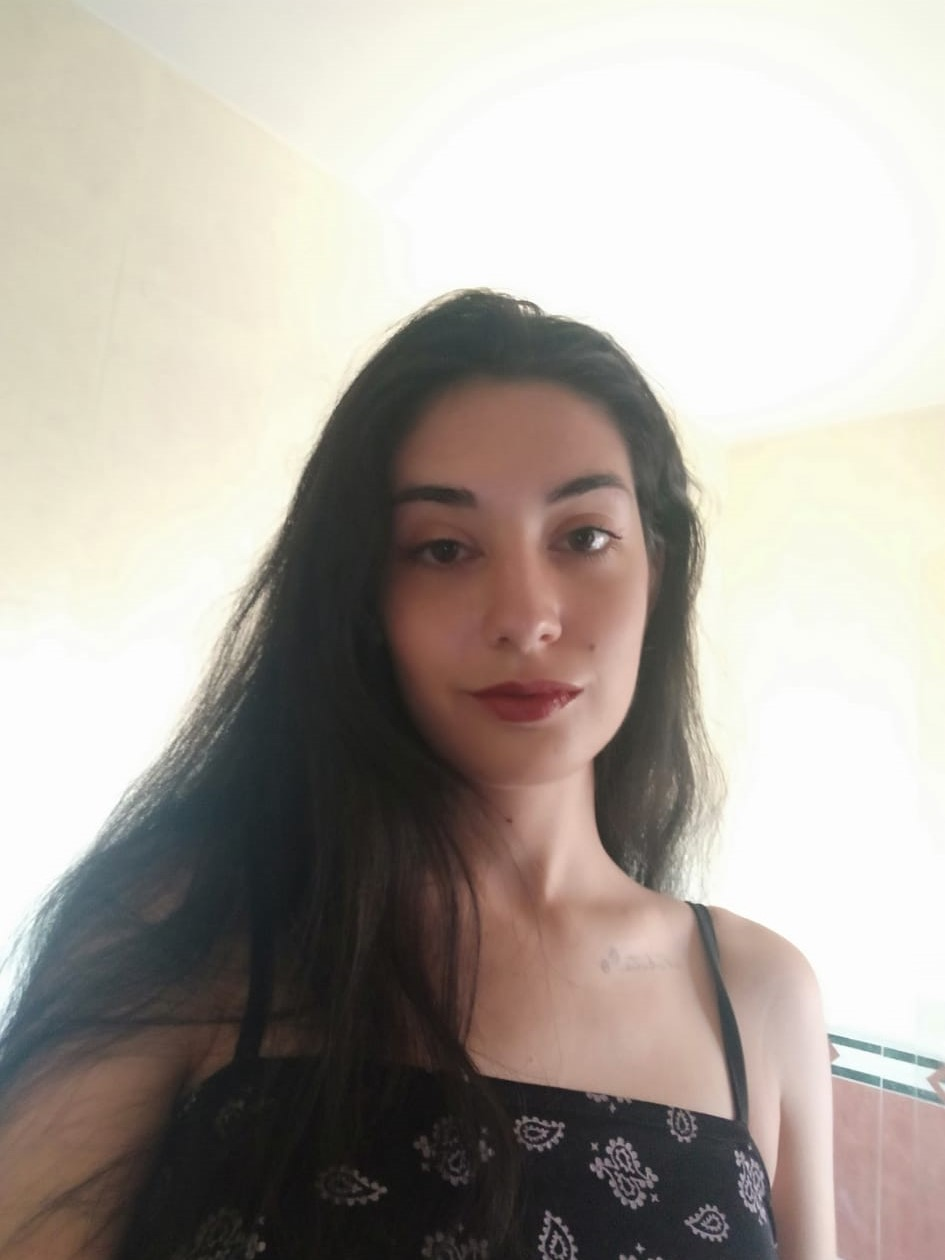
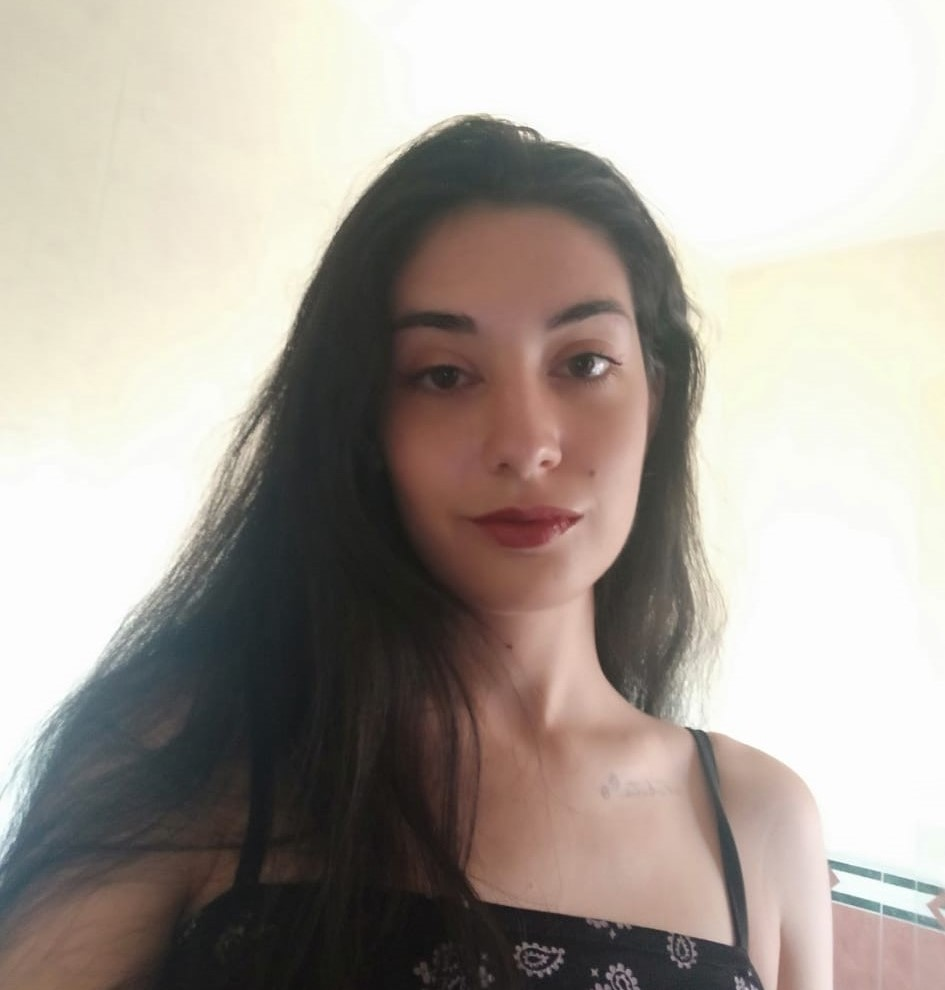
Pagina de Mónica
Se ha incorporado la pagina de monica, con cambios de imágenes, textos y colores

diff --git a/Mónica.html b/Mónica.html
@@ -3,10 +3,10 @@
 <head>
     <meta charset="UTF-8">
     <meta name="viewport" content="width=device-width, initial-scale=1.0">
-    <title>Alicia</title>
+    <title>Mónica</title>
     <link rel="stylesheet" href="css/styles.css">
-    <link rel="stylesheet" href="style.css">
-    
+    <link rel="stylesheet" href="monica_styles.css">
+    <link rel="icon" type="image/x-icon" href="assets/logo2.png" />
     <!-- boxicon css link -->
     <link href='https://unpkg.com/boxicons@2.1.4/css/boxicons.min.css' rel='stylesheet'>
     <!-- Link Swiper's CSS -->
@@ -18,7 +18,7 @@
         <ul<>
             <nav class="navbar navbar-expand-lg navbar-light fixed-top py-3" id="mainNav">
                 <div class="container px-4 px-lg-5">
-                    <a class="navbar-brand" href="#page-top">Alicia</a>
+                    <a class="navbar-brand" href="#page-top">Mónica</a>
                     <button class="navbar-toggler navbar-toggler-right" type="button" data-bs-toggle="collapse" data-bs-target="#navbarResponsive" aria-controls="navbarResponsive" aria-expanded="false" aria-label="Toggle navigation"><span class="navbar-toggler-icon"></span></button>
                     <div class="collapse navbar-collapse" id="navbarResponsive">
                         <ul class="navbar-nav ms-auto my-2 my-lg-0">
@@ -44,27 +44,26 @@
         <div class="home-content">
             <div class="row gx-4 gx-lg-5 h-100 align-items-center justify-content-center text-center">
                 <div class="col-lg-6 text-right">
-                    <img src="assets/fotos/alicia.jpg" alt="Logo de tu empresa" class="img-fluid max-200x200" />
+                    <img src="assets/fotos/monica.jpg" alt="Logo de tu empresa" class="img-fluid max-200x200" />
                 </div>
                 <div class="col-lg-6 align-self-center text-left">
                     <h3>Bienvenido a mi página</h3>
-                    <h1>Soy Alicia</h1>
+                    <h1>Soy Mónica</h1>
     
                     <div class="text-animate">
-                        <h2>Technical Designer</h2>
-                        <h2>& UI Designer</h2>
+                        <h2>3D Animator</h2>
                     </div>
     
-                    <p>Estudiante del grado en diseño y desarrollo de videojuegos. Especializada en diseño de IU y programación de shaders</p>
+                    <p>Estudiante del grado en diseño y desarrollo de videojuegos. Especializada en animacion de personajes 3D</p>
     
                     <div class="social-media mx-auto">
                         <div class="bg-icon">
-                            <a href="https://www.instagram.com/alisita.e/?hl=es"><i class='bx bxl-instagram'></i></a>
+                            <a href="https://www.instagram.com/monica_varas_garcia/?hl=es&img_index=1"><i class='bx bxl-instagram'></i></a>
                             <span></span>
                         </div>
         
                         <div class="bg-icon">
-                            <a href="#"><i class='bx bxl-linkedin'></i></a>
+                            <a href="https://twitter.com/moni_varas"><i class='bx bxl-twitter'></i></a>
                             <span></span>
                         </div>
 
@@ -81,42 +80,28 @@
         <div class="skills-row">
             <!-- Skill 1 -->
             <div class="skill-card">
-                <img src="assets/skills/2d.png" alt="Skill 1">
-                <div class="skill-name">ARTE 2D</div>
-                <div class="skill-description">Diseño de arte de videojuegos 2D. Concpet artist y diseño de arte vectorial y raster</div>
+                <img src="assets/skills/3d.png" alt="Skill 1">
+                <div class="skill-name">3D</div>
+                <div class="skill-description">Modelado 3D de personajes y assets para videojuegos.</div>
             </div>
             
             <!-- Skill 2 -->
             <div class="skill-card">
-                <img src="assets/skills/ux.png" alt="Skill 2">
-                <div class="skill-name">DISEÑO DE UI</div>
-                <div class="skill-description">Diseño y programacion de intefaces de usuario y menús.</div>
+                <img src="assets/skills/lapiz.png" alt="Skill 2">
+                <div class="skill-name">CHARACTER CONCEPT</div>
+                <div class="skill-description">Experiencia diseñando sistemas que mejoran el feel de los sistemas, su usabilidad y la interactividad</div>
             </div>
 
             <!-- Skill 3 -->
             <div class="skill-card">
-                <img src="assets/skills/3d.png" alt="Skill 3">
-                <div class="skill-name">ARTE 3D</div>
-                <div class="skill-description">Desarrollo de personajes, escenarios, animaciones y rigging para videojuegos.</div>
-            </div>
-
-            <!-- Skill 4 -->
-            <div class="skill-card">
-                <img src="assets/skills/lenguaje-de-codificacion.png" alt="Skill 4">
-                <div class="skill-name">PROGRAMACIÓN</div>
-                <div class="skill-description">Programación de interfaces y algoritmos para videojuegos.</div>
-            </div>
-
-             <!-- Skill 5 -->
-            <div class="skill-card">
-                <img src="assets/skills/efecto-visual.png" alt="Skill 4">
-                <div class="skill-name">VFX</div>
-                <div class="skill-description">Desarrollo de Shaders y VFX para videojuegos.</div>
+                <img src="assets/skills/animacion.png" alt="Skill 3">
+                <div class="skill-name">ANIMACIÓN 3D</div>
+                <div class="skill-description">Animación de personajes, rigging, skinning y texturado.</div>
             </div>
         </div>
     </section>
 
-<!-- Parte galleria-->
+<!-- Parte galleria
   <section class="portfolio-section" id="portfolio">
        <h2>Porfolio</h2>
         <div class="gallery">
@@ -146,7 +131,7 @@
             </div>
         </div>
     </section>
-
+-->
 
     <footer>
         <p>Copyright © 2023 by <span>Pars Coder</span> || All Right Reservd.</p>

diff --git a/monica_styles.css b/monica_styles.css
@@ -9,14 +9,14 @@
 }
 
 :root{
-    --bg-color-start: #dda6a6; 
-    --bg-color-end: #a55454;   
+    --bg-color-start: #a6b3dd; 
+    --bg-color-end: #5460a5;   
     --gradient-white-bg:linear-gradient(0deg,#fff 0%,#edf4fa 51%,#e5eef7 100%);
-    --gradient-color-bg:linear-gradient(180deg,rgb(102, 45, 45)0%,
-                                                rgb(70, 22, 22)51%,
-                                                rgb(121, 27, 27)100%);
-    --main-color:#5c0f0f;
-    --font-color:#9f9090;
+    --gradient-color-bg:linear-gradient(180deg,rgb(45, 58, 102)0%,
+                                                rgb(22, 31, 70)51%,
+                                                rgb(27, 36, 121)100%);
+    --main-color:#0f1d5c;
+    --font-color:#90929f;
     --hover-box-shadow:rgba(0, 0, 0, 0.19)0px 10px 20px,
                        rgba(0, 0, 0, 0.23)0px 6px 6px;     
     --gradient-white-bg2:linear-gradient(98deg,#f7e5e5 0%,#fff 100%);                                         
@@ -75,7 +75,7 @@ section{
     font-weight: 700;
     margin-bottom: 1rem;
     color: transparent;
-    -webkit-text-stroke: 0.05w #462121;
+    -webkit-text-stroke: 0.05w #212846;
     background: var(--gradient-color-bg);
     background-repeat: no-repeat;
     -webkit-background-clip: text;
@@ -103,7 +103,7 @@ section{
 
 .hero-info p{
     font-size: 1.9rem;
-    color: #ffb9b9;
+    color: #b9cfff;
     line-height: 1.6rem;
 }
 
@@ -138,7 +138,7 @@ section{
     height: 42px;
     font-size: 1.5rem;
     color: var(--main-color);
-    background: #f7cece;
+    background: #cedbf7;
     display: inline-flex;
     justify-content: center;
     align-items: center;
@@ -150,7 +150,7 @@ section{
 
 .social-media a:hover{
     background: var(--gradient-color-bg);
-    color: #fff;
+    color: #ffffff;
 }
 
 .bg-icon{
@@ -226,8 +226,8 @@ section{
     position: relative;
     width: 442px;
     height: 442px;
-    background: rgb(49, 15, 15);
-    border: 6px solid #b15858;
+    background: rgb(15, 24, 49);
+    border: 6px solid #5865b1;
     border-radius: 50%;
     z-index: 1;
     overflow: hidden;
@@ -237,7 +237,7 @@ section{
     content: "";
     position: absolute;
     inset: 20px;
-    background: #b15858;
+    background: #5877b1;
     border-radius: 50%;
     z-index: 1;
 }
@@ -255,7 +255,7 @@ section{
     position: absolute;
     width: 490px;
     height: 490px;
-    background: #fbf2f2;
+    background: #f2f5fb;
     border-radius: 50%;
     box-shadow: 0 1px 6px 5.94px rgba(0,0,0,0.2);
     animation: rotateText 30s linear infinite;
@@ -273,7 +273,7 @@ section{
 /* ==================== skills section css code ============================ */
 
 .skills-section {
-    background-color: #200d0d; /* Morado oscuro */
+    background-color: #0d0f20; /* Morado oscuro */
     color: #fff; /* Texto en blanco */
     padding: 50px 10%;
     text-align: center;
@@ -288,7 +288,7 @@ section{
 .skill-card {
     width: 220px;
     margin: 20px;
-    background-color: #741414; /* Morado más oscuro */
+    background-color: #142274; /* Morado más oscuro */
     padding: 20px;
     border-radius: 10px;
 }
@@ -318,7 +318,7 @@ section{
     padding: 50px 10%;
     text-align: center;
     margin-top: 30px;
-    background-color:  #dda6a6; /* Ajusta el valor alpha según sea necesario */
+    background-color:  #a6b3dd; /* Ajusta el valor alpha según sea necesario */
     border-radius: 8px; /* Añade esquinas redondeadas según sea necesario */
 }
 
@@ -410,14 +410,14 @@ section{
     top: 10px;
     right: 10px;
     font-size: 30px;
-    color: rgb(31, 27, 27);
+    color: rgb(27, 28, 31);
     text-decoration: none;
     cursor: pointer;
     z-index: 2;
 }
 
 .close-btn:hover {
-    color: rgb(255, 0, 0);
+    color: rgb(17, 0, 255);
 }
 
 /* ... (tu CSS existente) ... */

diff --git a/index.html b/index.html
@@ -169,7 +169,7 @@
                             </div>
                             <h2>Mónica Varas</h2>
                             <p>3D Artist & Animator</p>
-                            <button class="boton">Ver detalles</button>
+                            <a href="Mónica.html" class="boton">Ver detalles</a>
                         </div>
                     </div>
                     <div class="person">
@@ -181,7 +181,7 @@
                             </div>
                             <h2>Alejandro Campbell</h2>
                             <p>Lead programmer & Creative Director</p>
-                            <button class="boton">Ver detalles</button>
+                            <a href="Alex.html" class="boton">Ver detalles</a>
                         </div>
                     </div>
                     <div class="person">
